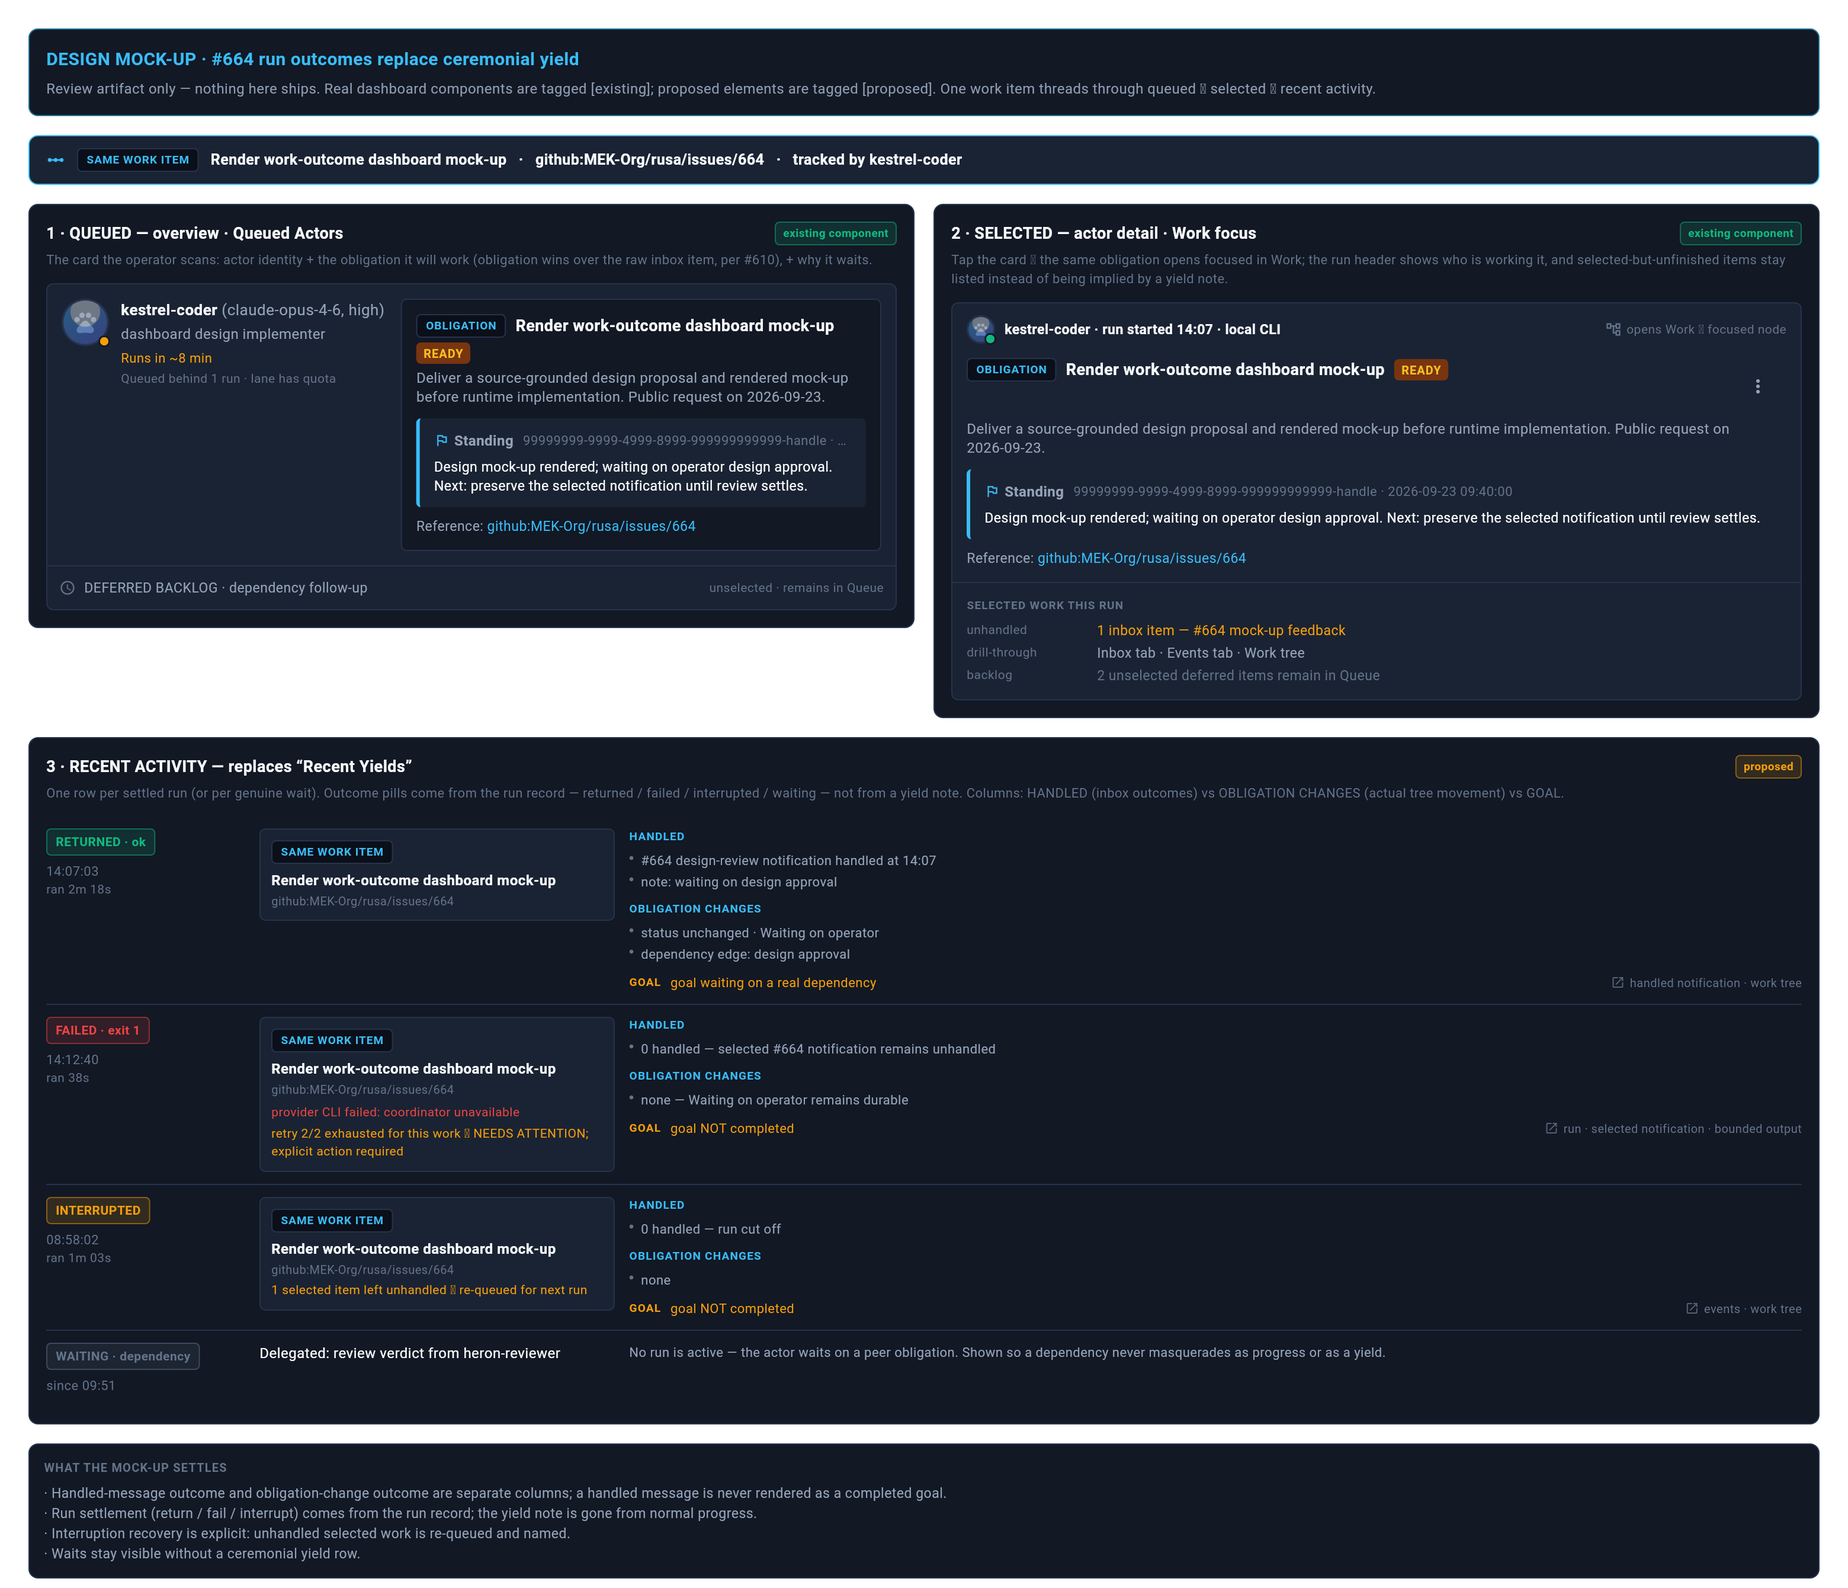
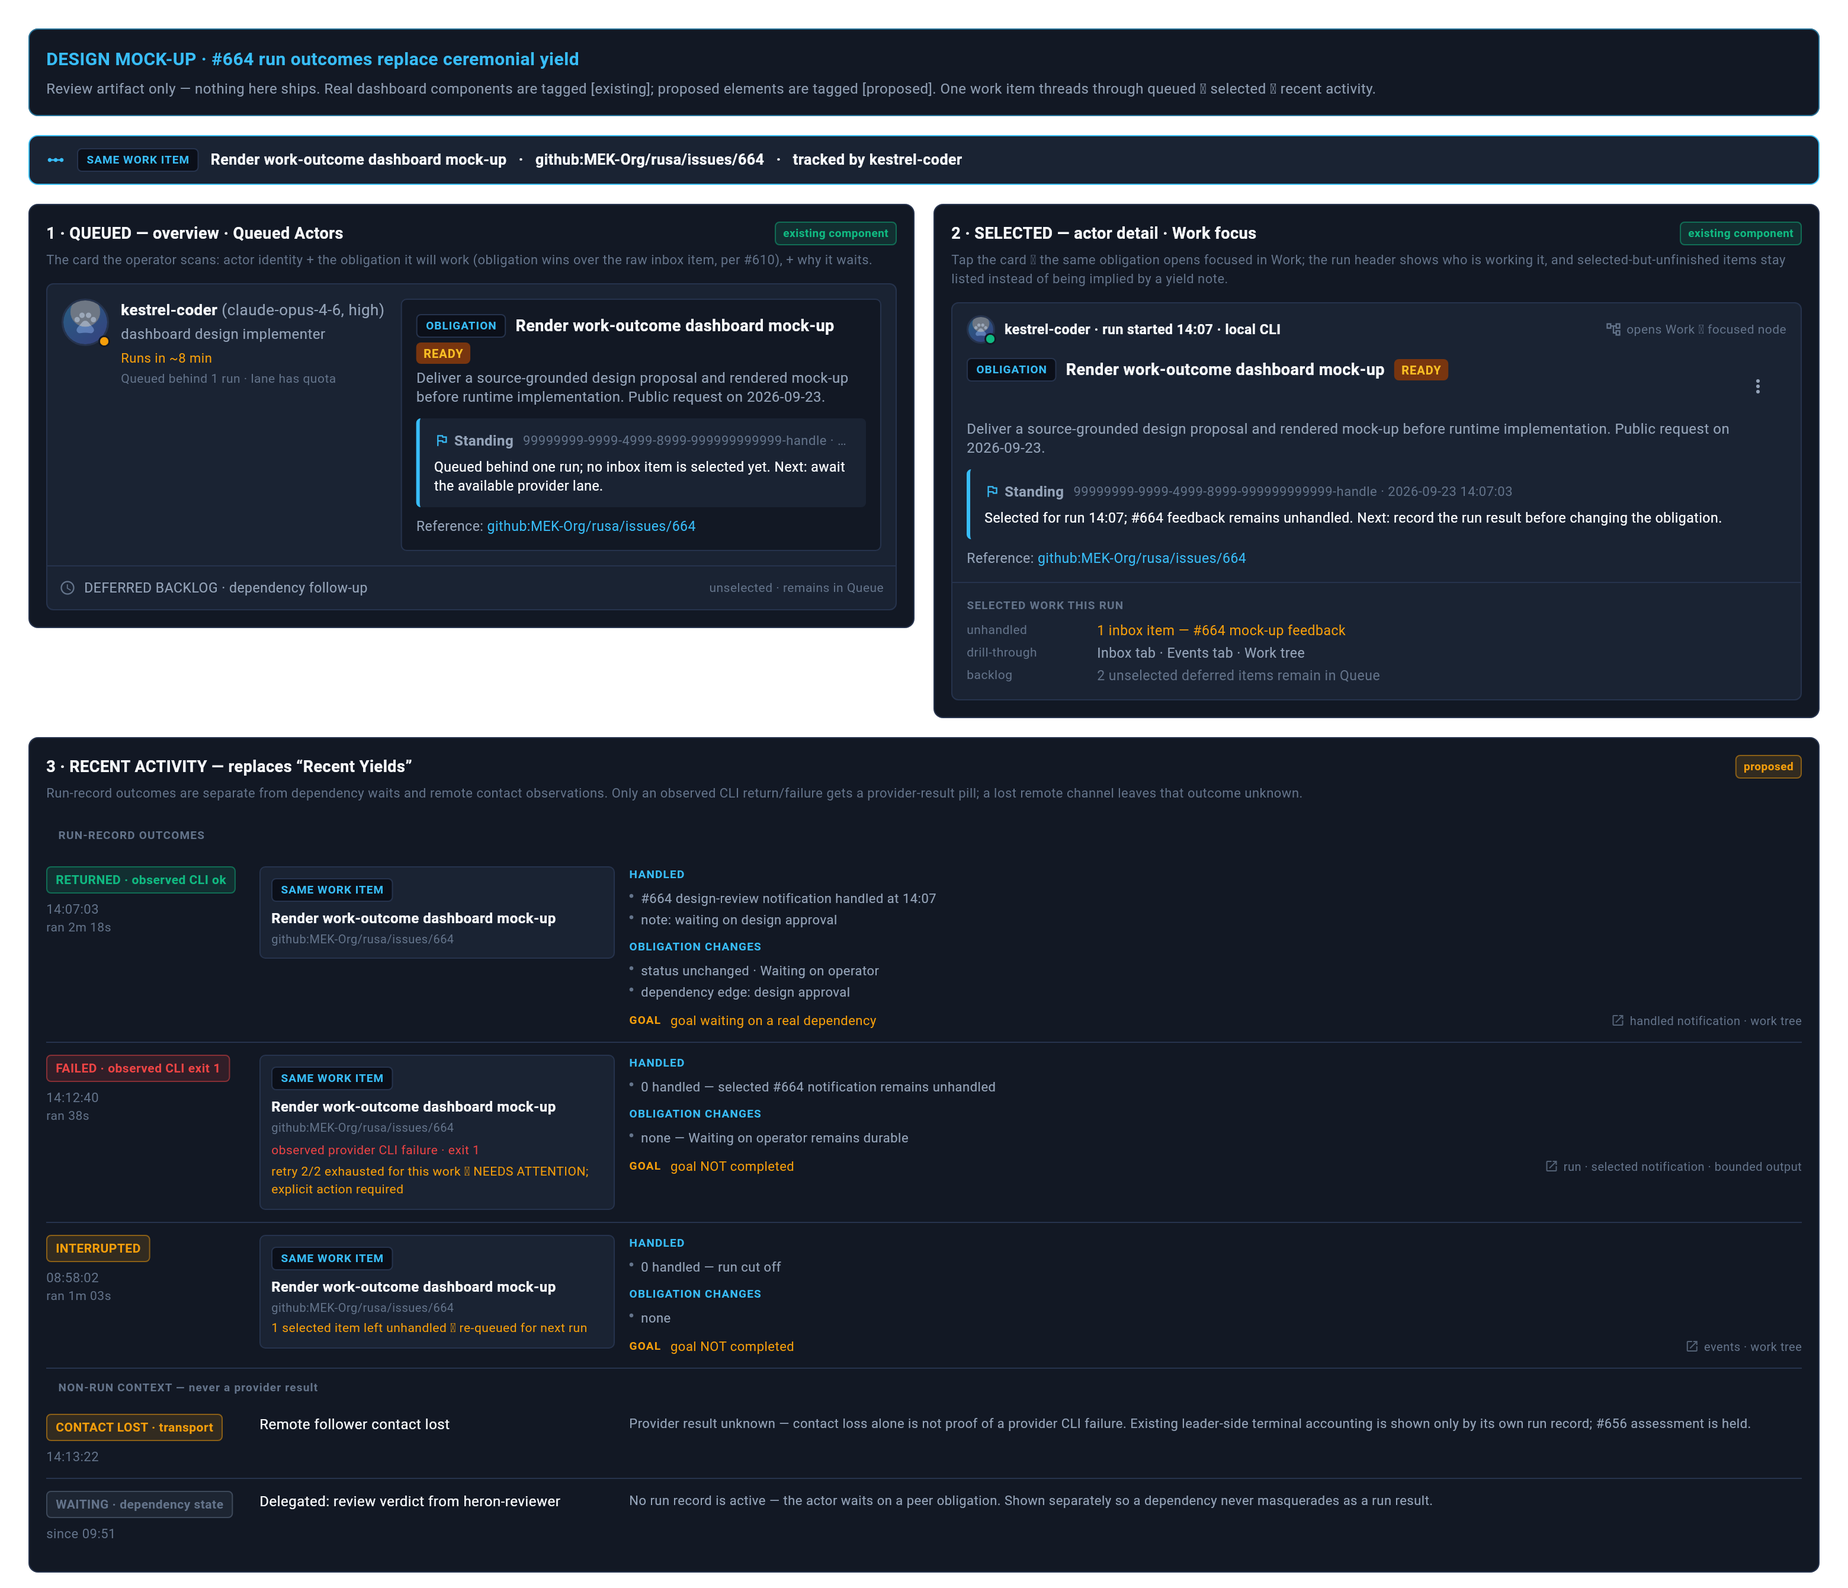
docs(dashboard): clarify #664 run outcome states

diff --git a/packages/rusa/flutter_dashboard/test/design_664_mockup_test.dart b/packages/rusa/flutter_dashboard/test/design_664_mockup_test.dart
@@ -58,7 +58,10 @@ void main() {
       HttpOverrides.global = _FakeImageHttpOverrides(await _portraits());
       addTearDown(() => HttpOverrides.global = null);
 
-      final obligation = makeObligation(
+      // Queue and selected views intentionally use two snapshots of the same
+      // work identity. A queued card must not borrow an approval-wait
+      // checkpoint from a later selected run.
+      final queuedObligation = makeObligation(
         _kObligationId,
         ownerId: _kActorId,
         title: _kObligationHeading,
@@ -66,9 +69,22 @@ void main() {
         externalRef: _kObligationRef,
         status: 'ready',
         checkpoint:
-            'Design mock-up rendered; waiting on operator design approval. '
-            'Next: preserve the selected notification until review settles.',
-        checkpointAt: '2026-09-23T09:40:00.000Z',
+            'Queued behind one run; no inbox item is selected yet. '
+            'Next: await the available provider lane.',
+        checkpointAt: '2026-09-23T09:38:00.000Z',
+        checkpointBy: _kActorId,
+      );
+      final selectedObligation = makeObligation(
+        _kObligationId,
+        ownerId: _kActorId,
+        title: _kObligationHeading,
+        intent: _kObligationIntent,
+        externalRef: _kObligationRef,
+        status: 'ready',
+        checkpoint:
+            'Selected for run 14:07; #664 feedback remains unhandled. '
+            'Next: record the run result before changing the obligation.',
+        checkpointAt: '2026-09-23T14:07:03.000Z',
         checkpointBy: _kActorId,
       );
       final api = FakeApi()
@@ -81,13 +97,13 @@ void main() {
             title: 'pool-selection implementer',
             queuePosition: 1,
             estimatedStartAt: '2026-09-23T09:52:00.000Z',
-            selectedObligation: obligation,
+            selectedObligation: selectedObligation,
             selectedProvider: 'claude',
             selectedModel: 'claude-opus-4-6',
             selectedEffort: 'high',
           ),
         ]
-        ..obligationsResult = [obligation];
+        ..obligationsResult = [selectedObligation];
       final store = DashboardStore(api: api, stream: FakeStream());
       await store.init();
       addTearDown(store.dispose);
@@ -105,7 +121,11 @@ void main() {
               key: key,
               child: SingleChildScrollView(
                 padding: const EdgeInsets.all(24),
-                child: _MockSheet(store: store, obligation: obligation),
+                child: _MockSheet(
+                  store: store,
+                  queuedObligation: queuedObligation,
+                  selectedObligation: selectedObligation,
+                ),
               ),
             ),
           ),
@@ -126,10 +146,15 @@ void main() {
 // ── The mock sheet ───────────────────────────────────────────────────────────
 
 class _MockSheet extends StatelessWidget {
-  const _MockSheet({required this.store, required this.obligation});
+  const _MockSheet({
+    required this.store,
+    required this.queuedObligation,
+    required this.selectedObligation,
+  });
 
   final DashboardStore store;
-  final ObligationDto obligation;
+  final ObligationDto queuedObligation;
+  final ObligationDto selectedObligation;
 
   @override
   Widget build(BuildContext context) {
@@ -138,17 +163,20 @@ class _MockSheet extends StatelessWidget {
       children: [
         const _Banner(),
         const SizedBox(height: 16),
-        _IdentityRibbon(obligation: obligation),
+        _IdentityRibbon(obligation: selectedObligation),
         const SizedBox(height: 16),
         Row(
           crossAxisAlignment: CrossAxisAlignment.start,
           children: [
             Expanded(
-              child: _QueuedPanel(store: store, obligation: obligation),
+              child: _QueuedPanel(store: store, obligation: queuedObligation),
             ),
             const SizedBox(width: 16),
             Expanded(
-              child: _SelectedPanel(store: store, obligation: obligation),
+              child: _SelectedPanel(
+                store: store,
+                obligation: selectedObligation,
+              ),
             ),
           ],
         ),
@@ -641,13 +669,14 @@ class _RecentActivityPanel extends StatelessWidget {
       step: '3',
       title: 'RECENT ACTIVITY — replaces “Recent Yields”',
       subtitle:
-          'One row per settled run (or per genuine wait). Outcome pills come '
-          'from the run record — returned / failed / interrupted / waiting — '
-          'not from a yield note. Columns: HANDLED (inbox outcomes) vs '
-          'OBLIGATION CHANGES (actual tree movement) vs GOAL.',
+          'Run-record outcomes are separate from dependency waits and remote '
+          'contact observations. Only an observed CLI return/failure gets a '
+          'provider-result pill; a lost remote channel leaves that outcome unknown.',
       tag: _proposedTag,
       child: Column(
         children: [
+          const _ActivitySectionLabel('RUN-RECORD OUTCOMES'),
+          const SizedBox(height: 4),
           _RunOutcomeRow(
             pill: _OutcomePill.returnedOk(),
             startLabel: '14:07:03',
@@ -680,7 +709,7 @@ class _RecentActivityPanel extends StatelessWidget {
             ],
             goalState: _GoalState.notCompleted,
             drillThrough: 'run · selected notification · bounded output',
-            errorTail: 'provider CLI failed: coordinator unavailable',
+            errorTail: 'observed provider CLI failure · exit 1',
             recovery:
                 'retry 2/2 exhausted for this work → NEEDS ATTENTION; explicit action required',
           ),
@@ -697,6 +726,11 @@ class _RecentActivityPanel extends StatelessWidget {
             drillThrough: 'events · work tree',
             recovery: '1 selected item left unhandled → re-queued for next run',
           ),
+          const Divider(height: 1, color: MeshColors.border),
+          const _ActivitySectionLabel(
+            'NON-RUN CONTEXT — never a provider result',
+          ),
+          const _RemoteContactObservationRow(),
           const Divider(height: 1, color: MeshColors.border),
           const _DependencyWaitRow(),
         ],
@@ -727,10 +761,14 @@ class _OutcomePill extends StatelessWidget {
   final String label;
   final Color color;
 
-  factory _OutcomePill.returnedOk() =>
-      const _OutcomePill._('RETURNED · ok', MeshColors.statusActive);
-  factory _OutcomePill.failed() =>
-      const _OutcomePill._('FAILED · exit 1', MeshColors.statusHalted);
+  factory _OutcomePill.returnedOk() => const _OutcomePill._(
+    'RETURNED · observed CLI ok',
+    MeshColors.statusActive,
+  );
+  factory _OutcomePill.failed() => const _OutcomePill._(
+    'FAILED · observed CLI exit 1',
+    MeshColors.statusHalted,
+  );
   factory _OutcomePill.interrupted() =>
       const _OutcomePill._('INTERRUPTED', MeshColors.statusIdle);
 
@@ -932,6 +970,28 @@ class _RunOutcomeRow extends StatelessWidget {
   }
 }
 
+class _ActivitySectionLabel extends StatelessWidget {
+  const _ActivitySectionLabel(this.label);
+  final String label;
+
+  @override
+  Widget build(BuildContext context) => Align(
+    alignment: Alignment.centerLeft,
+    child: Padding(
+      padding: const EdgeInsets.fromLTRB(10, 9, 10, 5),
+      child: Text(
+        label,
+        style: kMonoStyle.copyWith(
+          color: MeshColors.textMuted,
+          fontSize: 9.5,
+          fontWeight: FontWeight.w700,
+          letterSpacing: 0.6,
+        ),
+      ),
+    ),
+  );
+}
+
 class _OutcomeColumn extends StatelessWidget {
   const _OutcomeColumn({
     required this.header,
@@ -989,8 +1049,60 @@ class _OutcomeColumn extends StatelessWidget {
   }
 }
 
-/// Delegation and dependency waits remain visible as first-class rows — the
-/// point is that a wait is NOT a run and gets no fake run outcome.
+/// A contact-loss observation stays outside the run-record outcomes. It says
+/// only what the leader observed; it never claims the remote provider died.
+class _RemoteContactObservationRow extends StatelessWidget {
+  const _RemoteContactObservationRow();
+
+  @override
+  Widget build(BuildContext context) {
+    return const Padding(
+      padding: EdgeInsets.symmetric(vertical: 10),
+      child: Row(
+        crossAxisAlignment: CrossAxisAlignment.start,
+        children: [
+          SizedBox(
+            width: 168,
+            child: Column(
+              crossAxisAlignment: CrossAxisAlignment.start,
+              children: [
+                _OutcomePill._(
+                  'CONTACT LOST · transport',
+                  MeshColors.statusIdle,
+                ),
+                SizedBox(height: 5),
+                Text(
+                  '14:13:22',
+                  style: TextStyle(color: MeshColors.textMuted, fontSize: 11),
+                ),
+              ],
+            ),
+          ),
+          SizedBox(width: 12),
+          SizedBox(
+            width: 300,
+            child: Text(
+              'Remote follower contact lost',
+              style: TextStyle(color: MeshColors.textPrimary, fontSize: 12),
+            ),
+          ),
+          SizedBox(width: 12),
+          Expanded(
+            child: Text(
+              'Provider result unknown — contact loss alone is not proof of a '
+              'provider CLI failure. Existing leader-side terminal accounting '
+              'is shown only by its own run record; #656 assessment is held.',
+              style: TextStyle(color: MeshColors.textSecondary, fontSize: 11),
+            ),
+          ),
+        ],
+      ),
+    );
+  }
+}
+
+/// Delegation and dependency waits remain visible as a separately labelled
+/// state — a wait is NOT a run record and gets no fake run outcome.
 class _DependencyWaitRow extends StatelessWidget {
   const _DependencyWaitRow();
 
@@ -1007,7 +1119,7 @@ class _DependencyWaitRow extends StatelessWidget {
               crossAxisAlignment: CrossAxisAlignment.start,
               children: [
                 _OutcomePill._(
-                  'WAITING · dependency',
+                  'WAITING · dependency state',
                   MeshColors.statusRetired,
                 ),
                 SizedBox(height: 5),
@@ -1029,8 +1141,8 @@ class _DependencyWaitRow extends StatelessWidget {
           const SizedBox(width: 12),
           const Expanded(
             child: Text(
-              'No run is active — the actor waits on a peer obligation. Shown '
-              'so a dependency never masquerades as progress or as a yield.',
+              'No run record is active — the actor waits on a peer obligation. '
+              'Shown separately so a dependency never masquerades as a run result.',
               style: TextStyle(color: MeshColors.textSecondary, fontSize: 11),
             ),
           ),

diff --git a/docs/run-outcomes-dashboard-design.md b/docs/run-outcomes-dashboard-design.md
@@ -18,7 +18,15 @@ This design starts from `staging` commit `fc2fefff63181434f701ce043cb980a94303ba
 - `packages/rusa/src/db/repositories/actor-run-repository.ts` stores run focus
   and terminal rows. `src/actor/actor.ts`, `src/actor/actor-mesh.ts`, and
   `src/experimental/remote-instances/actor-handle.ts` provide the existing
-  local and remote terminal boundaries.
+  local and remote terminal boundaries. A follower's `result` message is the
+  observed remote CLI result; a lost follower channel is a separate leader-side
+  transport observation, not evidence that the provider CLI died.
+- At this baseline `ActorHandle.fail()` terminates an already-open remote run
+  with a synthetic unsuccessful result after a connection/startup failure. That
+  is the current leader-side accounting behavior being described, not a new
+  provider-death classification. The lease/heartbeat assessment in
+  [#656](https://github.com/MEK-Org/rusa/issues/656) is held separately; this
+  design does not change or endorse that transport behavior.
 - [#610](https://github.com/MEK-Org/rusa/issues/610) asks the queue to prefer an
   obligation card when the inbox source has an unambiguous obligation link.
 - [#664](https://github.com/MEK-Org/rusa/issues/664) and its
@@ -35,15 +43,21 @@ through three places:
 
 1. **Queued** — show it as upcoming work, not as proof that it has already been
    selected. Prefer the obligation card only for an unambiguous association, as
-   #610 requests. A separately labelled deferred entry remains in Queue.
+   #610 requests. Its snapshot shows the queue-stage checkpoint (why it is
+   waiting and what is next), not a later approval-wait checkpoint. A
+   separately labelled deferred entry remains in Queue.
 2. **Selected** — open the same card in the actor's work focus and list the
    selected inbox items separately from unselected backlog. Drill-through goes
-   to Inbox, Events, and Work.
+   to Inbox, Events, and Work. Its snapshot instead says that work was selected
+   for this run and names the next run-stage action.
 3. **Recent activity** — replace a yield-note feed with a run-settlement row:
    terminal result and time; work identity; **Handled** inbox outcomes;
    **Obligation changes**; goal state; and drill-through to the run, source, and
-   work record. A wait caused by a dependency is visible as a wait, not a fake
-   run result.
+   work record. Run-record outcomes are limited to observed CLI results,
+   interruption, and the current terminal accounting result. A dependency wait
+   appears in a separately labelled **Dependency waiting** section, and remote
+   contact loss appears as a transport observation with provider outcome
+   **unknown**, never as a fake provider failure.
 
 The screenshot deliberately includes these recovery cases:
 
@@ -53,6 +67,9 @@ The screenshot deliberately includes these recovery cases:
 - A provider failure occurs while the #664 notification is selected. That
   notification remains unhandled; its work-specific retry budget is exhausted
   and the row projects **Needs attention** with explicit drill-through.
+- A separately labelled remote-contact-loss observation says only that the
+  leader lost contact with the follower. It does not call the provider dead or
+  replace a later observed follower CLI result.
 - A deferred, unselected backlog item still appears in Queue. It was not
   consumed by the failed selected run and does not spend that work's retry
   budget.
@@ -60,10 +77,12 @@ The screenshot deliberately includes these recovery cases:
 ## Runtime direction for a later implementation
 
 Use the existing run id and terminal compare-and-set. A local provider return
-settles through the current actor result path; a thrown provider result settles
-as failed. The remote follower result is completed through the leader's actor
-handle; a failed remote channel closes an open run through the existing failure
-route. In every case, record one terminal outcome and never infer obligation
+or thrown provider error settles through the current actor result path. A remote
+provider result is observed only when the follower sends its result through the
+leader's actor handle. A lost remote channel must be labelled as contact loss
+with an unknown provider outcome; the current code's leader-side terminal
+accounting for an already-open run remains visible as such while #656 is
+assessed. In every case, record one terminal outcome and never infer obligation
 completion from an ordinary successful CLI return.
 
 After terminal settlement, reconcile only that run's selected inbox ids against
@@ -75,9 +94,11 @@ waiting uses its durable edge. Neither needs a routine `complete` or `blocked`
 yield label.
 
 The implementation test matrix should cover local success, local throw,
-interruption, duplicate remote completion, remote disconnect, and restart. Each
-case should demonstrate exactly one terminal record/event and preserve the
-separate handled-inbox and obligation-transition outcomes.
+interruption, duplicate remote completion, remote contact loss, and restart.
+Each case should demonstrate exactly one terminal record/event, preserve the
+separate handled-inbox and obligation-transition outcomes, and prove that a
+transport-loss display never claims a provider CLI failure without an observed
+CLI result.
 
 ## Review artifact
 
